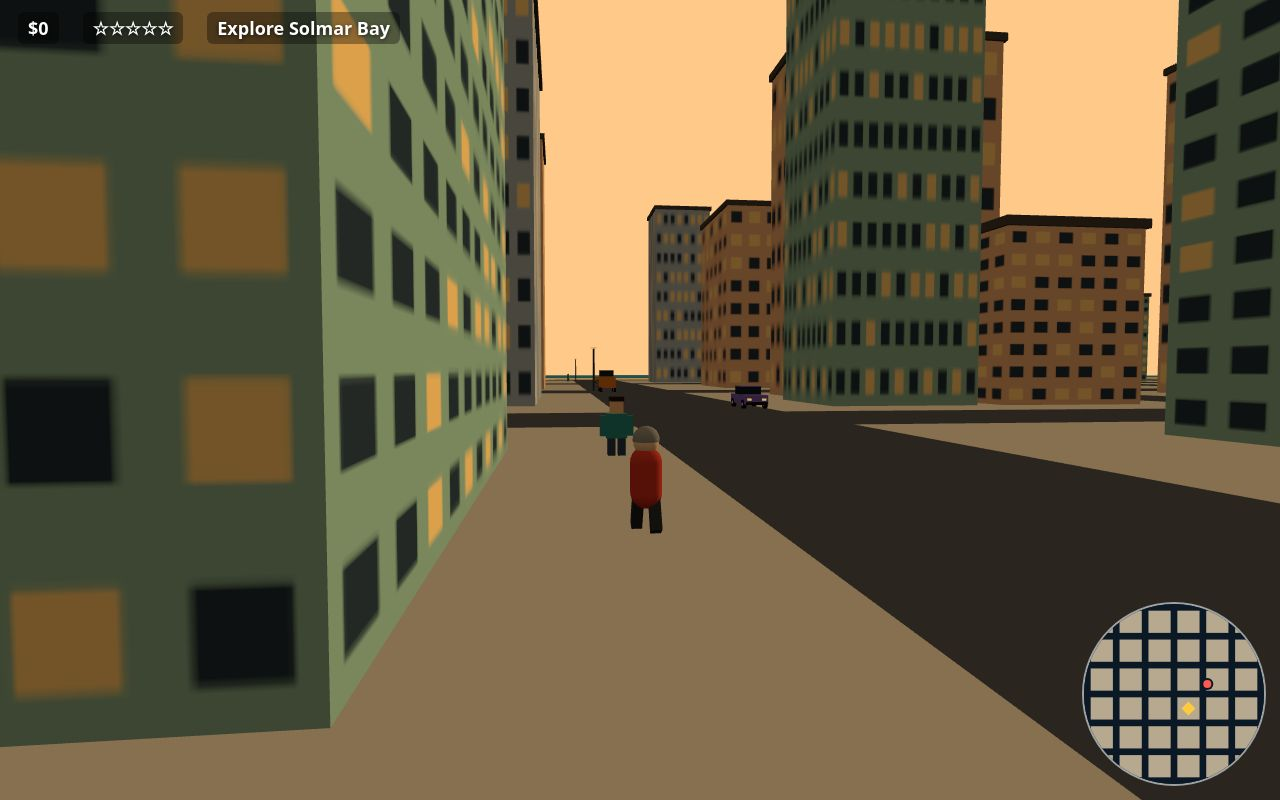
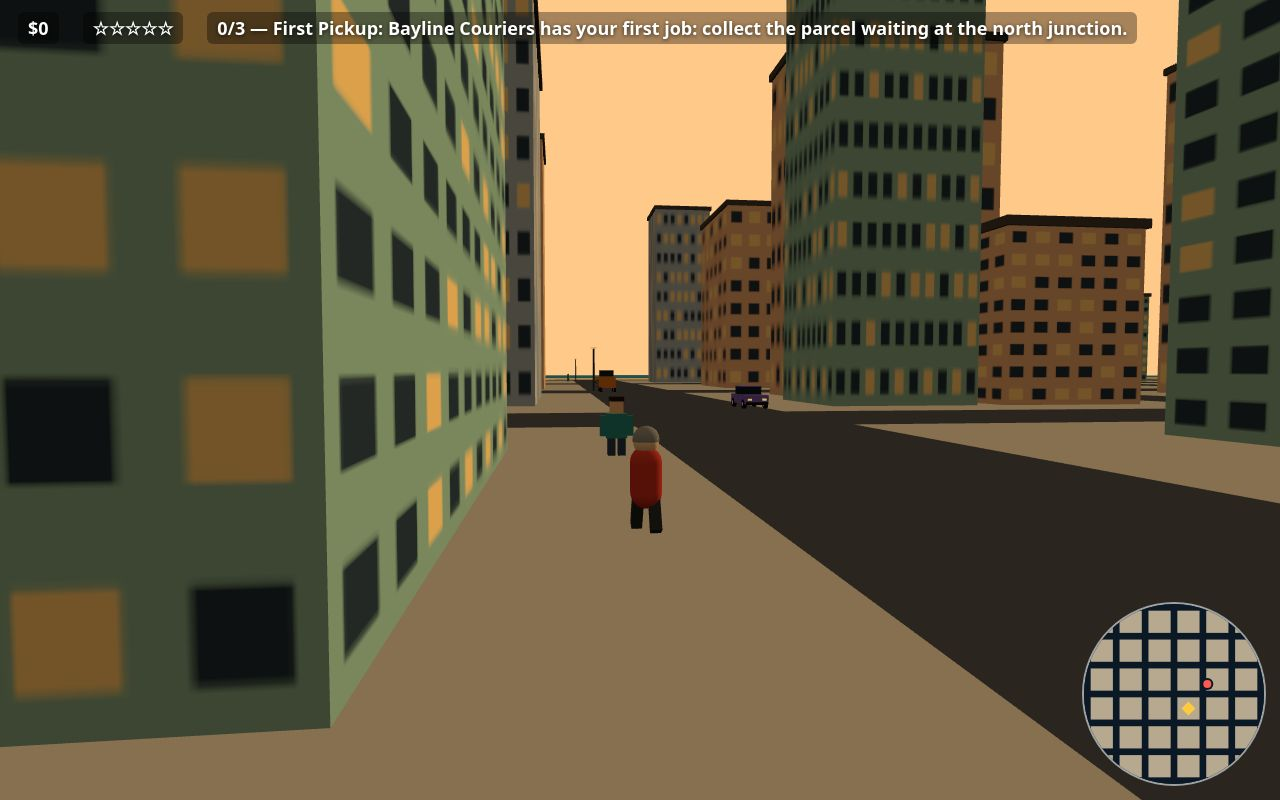
Slice 5: missions + story

Changed region(s): [[0.1562, 0.0, 0.9062, 0.0625]]

diff --git a/game/src/missions.js b/game/src/missions.js
@@ -1,0 +1,218 @@
+// Solmar Bay — courier missions + thin story (slice 5).
+//
+//   const missions = createMissions(scene, city, { onComplete });
+//   Returns { update, getCompleted, getTotal, getCurrentIndex, getCurrent,
+//             getCurrentTarget, getMissions, getObjectiveText, isComplete,
+//             marker }.
+//
+//   createMissions(scene, city, options?)
+//     scene — THREE.Scene; city — buildCity() result ({ bounds }); the
+//     targets below sit on road centre lines, so they need nothing from
+//     the city except an optional bounds sanity check. options is an
+//     optional object; options.onComplete(mission) is called once per
+//     finished mission with { name, brief, x, z, reward, index } — the
+//     wiring session uses it to add mission.reward to the cash total.
+//     This module never touches game state itself.
+//
+//   missions.update(dt, roadUser)
+//     Step every play frame. roadUser is the player object
+//     ({ pos: { x, z } }) or a driven car ({ x, z }), the same
+//     convention as traffic.update / police.update. When the road user
+//     comes within ARRIVE_DIST of the active target the mission
+//     completes, the marker moves to the next target, and onComplete
+//     fires. After the last mission the marker hides and the route is
+//     done. Call only while playing, like the other per-frame updates.
+//
+//   Getters (all cheap, safe to call every frame):
+//     getCompleted() — missions finished so far (0..3).
+//     getTotal() — 3. getCurrentIndex() — 0-based active mission, or 3
+//     when the route is done. getCurrent() — the active mission object
+//     ({ name, brief, x, z, reward, index }) or null when done.
+//     getCurrentTarget() — { x, z } of the active marker, or null.
+//     getMissions() — a copy of all three mission definitions.
+//     getObjectiveText() — the HUD line, e.g. "1/3 — First Pickup:
+//     collect the parcel at the north junction". The wiring session
+//     pushes it into hud.setObjective() each frame (or when it
+//     changes). isComplete() — true once all three are done.
+//     marker — the THREE.Group holding the active marker meshes, for
+//     screenshots and tests.
+//
+//   The story, in full: a new courier signs on with Bayline Couriers,
+//   a small Solmar Bay delivery outfit, and runs one route across the
+//   city — a pickup, a cross-town drop, and a last run to the old pier
+//   road. It is told only through the one-line brief per mission and
+//   the HUD objective text. No dialogue, no cutscenes, no timers, no
+//   combat, no multi-stop chains: each mission is simply "reach the
+//   glowing marker". All people, places and names are original fiction
+//   for Solmar Bay.
+
+import * as THREE from 'three';
+
+const ARRIVE_DIST = 5;       // metres — generous so walking and driving both count
+const MARKER_GOLD = 0xffc93f;
+const TOTAL = 3;
+
+// The route. Every target is a road-centre intersection, verified
+// against the seeded city: each sits 17+ m from the nearest building
+// collider and 48+ m from the nearest parked car, reachable on foot
+// and by car. M1 is a short walk north of spawn (0,0); M2 is a
+// cross-town drive to the south-east; M3 is the far south-west corner.
+const ROUTE = [
+  {
+    name: 'First Pickup',
+    brief: 'Bayline Couriers has your first job: collect the parcel waiting at the north junction.',
+    x: 0, z: -52, reward: 150,
+  },
+  {
+    name: 'Cross-Town Delivery',
+    brief: 'The parcel goes to a client on the far south-east side — a car will get you there faster.',
+    x: 104, z: 104, reward: 250,
+  },
+  {
+    name: 'The Last Run',
+    brief: 'One last drop at the old pier road, south-west corner — finish the route and the day is yours.',
+    x: -156, z: 156, reward: 400,
+  },
+];
+
+export function createMissions(scene, city, options) {
+  const onComplete = options && typeof options.onComplete === 'function'
+    ? options.onComplete
+    : null;
+  const bounds = (city && city.bounds) || null;
+
+  // Sanity check only: the targets are fixed road intersections, but
+  // warn loudly if one ever lands outside the city bounds.
+  if (bounds) {
+    for (const m of ROUTE) {
+      if (m.x < bounds.minX || m.x > bounds.maxX || m.z < bounds.minZ || m.z > bounds.maxZ) {
+        console.warn('[missions] target outside bounds:', m.name, m.x, m.z);
+      }
+    }
+  }
+
+  let completed = 0;         // missions finished so far
+  let animTime = 0;          // drives the marker pulse / bob
+
+  // The marker, built fresh here: a glowing flat ring on the road, a
+  // tall soft beam of light above it, and a small gold octahedron
+  // bobbing in the beam. One group, repositioned per mission.
+  const marker = new THREE.Group();
+
+  const ringMat = new THREE.MeshBasicMaterial({
+    color: MARKER_GOLD, transparent: true, opacity: 0.9, side: THREE.DoubleSide,
+  });
+  const ring = new THREE.Mesh(new THREE.RingGeometry(2.2, 3.0, 40), ringMat);
+  ring.rotation.x = -Math.PI / 2;
+  ring.position.y = 0.06;
+  marker.add(ring);
+
+  const beamMat = new THREE.MeshBasicMaterial({
+    color: MARKER_GOLD, transparent: true, opacity: 0.16,
+    depthWrite: false, side: THREE.DoubleSide,
+  });
+  const beam = new THREE.Mesh(new THREE.CylinderGeometry(0.55, 1.0, 14, 12, 1, true), beamMat);
+  beam.position.y = 7;
+  marker.add(beam);
+
+  const beaconMat = new THREE.MeshBasicMaterial({ color: MARKER_GOLD });
+  const beacon = new THREE.Mesh(new THREE.OctahedronGeometry(0.7), beaconMat);
+  beacon.position.y = 3;
+  marker.add(beacon);
+
+  function placeMarker() {
+    const m = ROUTE[completed];
+    if (!m) {
+      marker.visible = false;
+      return;
+    }
+    marker.position.set(m.x, 0, m.z);
+    marker.visible = true;
+  }
+  placeMarker();
+  scene.add(marker);
+
+  // Read the road user's ground position either way it can arrive:
+  // a player object ({ pos: { x, z } }) or a plain { x, z } car.
+  function userPos(roadUser) {
+    if (!roadUser) return null;
+    if (roadUser.pos && typeof roadUser.pos.x === 'number' && typeof roadUser.pos.z === 'number') {
+      return { x: roadUser.pos.x, z: roadUser.pos.z };
+    }
+    if (typeof roadUser.x === 'number' && typeof roadUser.z === 'number') {
+      return { x: roadUser.x, z: roadUser.z };
+    }
+    return null;
+  }
+
+  function update(dt, roadUser) {
+    dt = Math.min(dt, 0.05);
+    if (dt <= 0) return;
+    animTime += dt;
+
+    // Idle animation for the active marker: ring breathes, beam
+    // shimmers, beacon bobs and turns. Runs even when the route is
+    // done (marker hidden, so nothing shows) to keep the math simple.
+    const pulse = 1 + 0.08 * Math.sin(animTime * 3);
+    ring.scale.set(pulse, pulse, 1);
+    ringMat.opacity = 0.7 + 0.2 * Math.sin(animTime * 3);
+    beamMat.opacity = 0.12 + 0.06 * Math.sin(animTime * 2);
+    beacon.position.y = 3 + 0.4 * Math.sin(animTime * 2);
+    beacon.rotation.y += dt * 1.5;
+
+    if (completed >= TOTAL) return;
+
+    const pos = userPos(roadUser);
+    if (!pos) return;
+    const target = ROUTE[completed];
+    const dx = pos.x - target.x, dz = pos.z - target.z;
+    if (dx * dx + dz * dz > ARRIVE_DIST * ARRIVE_DIST) return;
+
+    // Arrival: count it, pay out through the callback, move the marker.
+    const done = { name: target.name, brief: target.brief, x: target.x, z: target.z, reward: target.reward, index: completed };
+    completed += 1;
+    placeMarker();
+    if (onComplete) onComplete(done);
+  }
+
+  function getCompleted() { return completed; }
+  function getTotal() { return TOTAL; }
+  function getCurrentIndex() { return completed; }
+  function isComplete() { return completed >= TOTAL; }
+
+  function getCurrent() {
+    if (completed >= TOTAL) return null;
+    const m = ROUTE[completed];
+    return { name: m.name, brief: m.brief, x: m.x, z: m.z, reward: m.reward, index: completed };
+  }
+
+  function getCurrentTarget() {
+    const cur = getCurrent();
+    return cur ? { x: cur.x, z: cur.z } : null;
+  }
+
+  function getMissions() {
+    return ROUTE.map((m, i) => ({ name: m.name, brief: m.brief, x: m.x, z: m.z, reward: m.reward, index: i }));
+  }
+
+  function getObjectiveText() {
+    if (completed >= TOTAL) {
+      return '3/3 — Route complete! All Bayline deliveries done.';
+    }
+    const m = ROUTE[completed];
+    return completed + '/3 — ' + m.name + ': ' + m.brief;
+  }
+
+  return {
+    update,
+    getCompleted,
+    getTotal,
+    getCurrentIndex,
+    getCurrent,
+    getCurrentTarget,
+    getMissions,
+    getObjectiveText,
+    isComplete,
+    marker,
+  };
+}

diff --git a/game/src/main.js b/game/src/main.js
@@ -8,6 +8,7 @@ import { createTraffic } from './traffic.js';
 import { createPedestrians } from './pedestrians.js';
 import { knockDownPed } from './pedestrians.js';
 import { createPolice } from './police.js';
+import { createMissions } from './missions.js';
 import { createInput } from './input.js';
 import { createPlayer, createPlayerMesh } from './player.js';
 import { createCamera } from './camera.js';
@@ -32,6 +33,8 @@ const { cars } = createCars(scene, city, rng);
 const traffic = createTraffic(scene, city, rng);
 const { peds, update: updatePeds } = createPedestrians(scene, city, rng);
 const police = createPolice(scene, city, rng);
+// Slice 5: Bayline courier missions — payout lands here, once per mission.
+const missions = createMissions(scene, city, { onComplete: (m) => { cash += m.reward; } });
 
 const player = createPlayer(city.spawn, city.colliders, city.bounds);
 scene.add(player.mesh);
@@ -58,6 +61,7 @@ const game = {
   traffic,
   peds,
   police,
+  missions,
   get driving() { return driving; },
   get currentCar() { return currentCar; },
   hud,
@@ -134,6 +138,11 @@ function frame() {
     // gap from every other car so they can close in and ram it.
     police.update(dt, roadUser, [...cars.filter((c) => c !== currentCar), ...traffic.cars]);
     wanted = police.getWanted();
+    // Slice 5: courier missions — reach the gold marker; the HUD
+    // objective is pushed every frame, so it overwrites the one-off
+    // steal/exit objective strings set above on the same frame.
+    missions.update(dt, roadUser);
+    hud.setObjective(missions.getObjectiveText());
     // Slice 4: hitting a pedestrian with the driven car is a crime
     // (+1 star). A ped already down does not trigger again.
     if (driving && currentCar && Math.abs(currentCar.speed) > 3) {

diff --git a/game/src/shots.js b/game/src/shots.js
@@ -133,6 +133,18 @@ export function setupShot(name, ctx) {
     return;
   }
 
+  if (name === 'mission') {
+    // Slice 5 mission shot: stand the player on the north road just
+    // short of the M1 marker so the gold ring + beam + HUD objective
+    // are all in frame. The player is 8 m from the target — outside
+    // the 5 m arrival radius, so the mission does not complete.
+    player.pos.set(0, 0, -44);
+    if (player.mesh) player.mesh.position.copy(player.pos);
+    setState('play');
+    camera.setPose(V(8, 6, -38), V(0, 1.5, -52));
+    return;
+  }
+
   // Unknown name: fall back to the title framing.
   camera.setPose(V(150, 95, 215), V(-10, 18, -30));
 }
